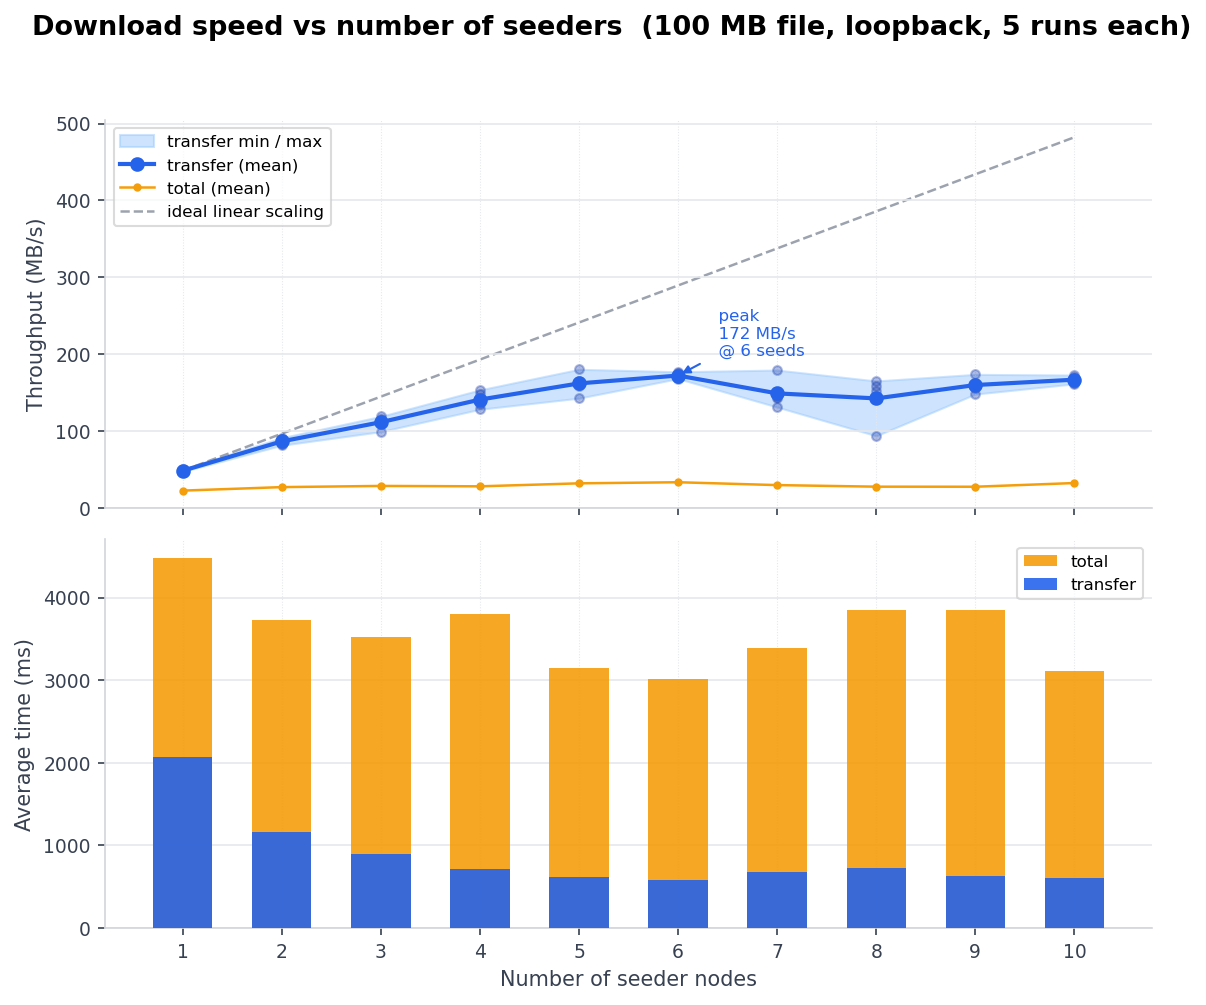
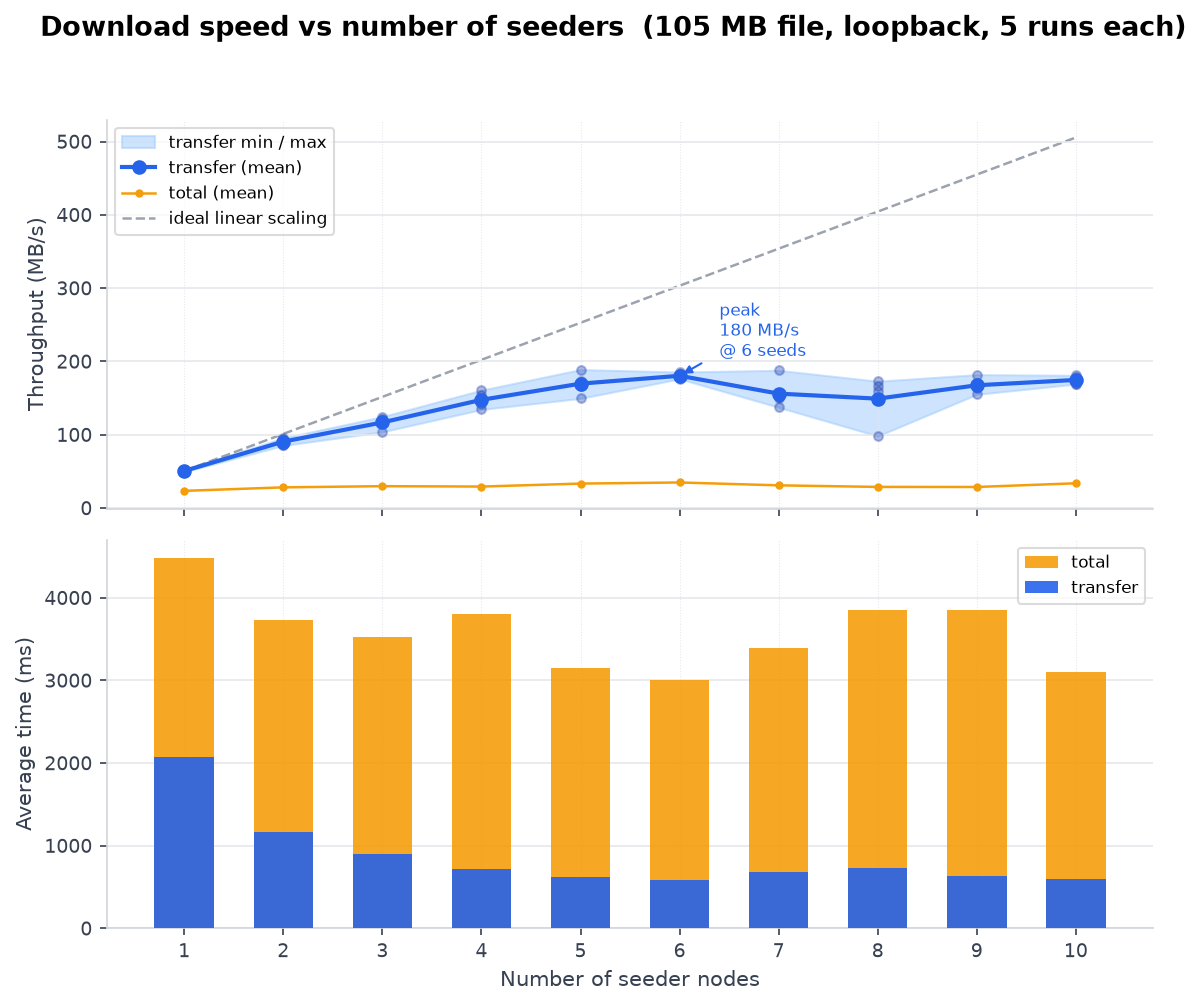
docs: recompute the benchmark results in MB/s and update the graphs

diff --git a/README.md b/README.md
@@ -51,7 +51,7 @@ This compiles the code, checks formatting (Spotless), and runs the tests. CI run
 
 ## Benchmark
 
-Measures download speed with 1 to N seeders, in Docker with a limited network and on loopback with no limit. With each seeder limited to 100 Mbit/s and a 20 ms delay added to simulate a real network, 10 seeders reach about 94 MB/s, roughly 80% of perfect scaling (10 × 100 Mbit/s). The dashed line in the graph scales from the 1-seeder result, so it sits a little below that.
+Measures download speed with 1 to N seeders, in Docker with a limited network and on loopback with no limit. With each seeder limited to 100 Mbit/s and a 20 ms delay added to simulate a real network, 10 seeders reach about 98 MB/s, roughly 80% of perfect scaling (10 × 100 Mbit/s). The dashed line in the graph scales from the 1-seeder result, so it sits a little below that.
 
 ```bash
 benchmark/network/run.sh
